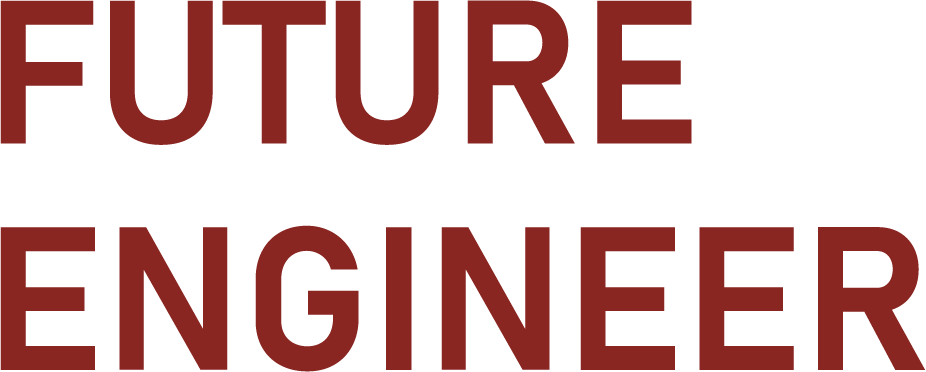
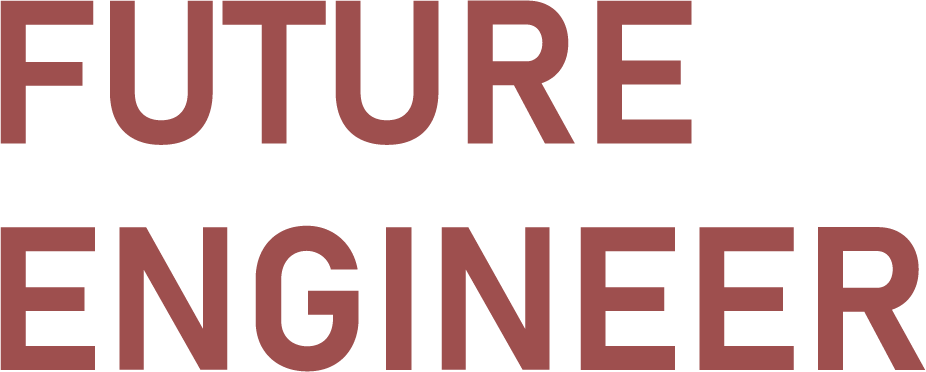
エンジニア説明周り修正

diff --git a/dev/src/dist/css/style.css b/dev/src/dist/css/style.css
@@ -1,9 +1,9 @@
 :import("../colors/_colors.css"){
-  i__const_col_text_common_81: col-text-common;
-  i__const_col_text_placeholder_common_82: col-text-placeholder-common;
+  i__const_col_text_common_147: col-text-common;
+  i__const_col_text_placeholder_common_148: col-text-placeholder-common;
 }
 :import("../variables/_variables.css"){
-  i__const_hover_time_transition_common_83: hover-time-transition-common;
+  i__const_hover_time_transition_common_149: hover-time-transition-common;
 }
 :export{
   values: "../variables/_variables.css";
@@ -2570,7 +2570,7 @@ button {
       }
 .Future__main--staffDetail {
       background-image: none;
-      background-color: #a52224;
+      background-color: #aa5c5a;
       padding: 0;
     }
 @media screen and (max-width: 1023px) {
@@ -2649,7 +2649,7 @@ button {
   }
 }
 .Future__lead {
-    background-color: #a72225;
+    background-color: #aa5c5a;
     padding: 80px 0 0;
   }
 @media screen and (max-width: 767px) {
@@ -2749,6 +2749,7 @@ button {
     position: relative;
     padding: 40px 10px 40px;
     z-index: 1;
+    margin-top: -1px;
   }
 @media screen and (max-width: 767px) {
   .Future__flowBody {
@@ -2985,6 +2986,19 @@ button {
     font-size: 1.4rem;
     line-height: 1.8;
   }
+@media screen and (max-width: 767px) {
+  .Future__infoGr {}
+}
+.Future__infoGr img {
+      margin-bottom: 40px;
+      display: block;
+    }
+@media screen and (max-width: 767px) {
+  .Future__infoGr img {
+    width: 48%;
+    margin-bottom: 20px;
+  }
+}
 .Future__bnrWrapper {
     padding: 60px 0;
   }
@@ -3009,7 +3023,7 @@ button {
   }
 }
 .Future__bnrContainer {
-    background-color: #a52224;
+    background-color: #aa5c5a;
     padding: 50px 0 80px;
   }
 @media screen and (max-width: 767px) {
@@ -3063,7 +3077,7 @@ button {
   }
 }
 .Staff__textWrapper {
-    background-color: #a52224;
+    background-color: #aa5c5a;
     color: #fff;
     border-radius: 14px 0 0 14px;
     -webkit-flex-basis: 50%;

diff --git a/dev/src/css/ui/future.css b/dev/src/css/ui/future.css
@@ -67,7 +67,7 @@
 
     &--staffDetail {
       background-image: none;
-      background-color: col-primary-red;
+      background-color: #aa5c5a;
       padding: 0;
 
       @mixin notPC {
@@ -138,7 +138,7 @@
   }
   
   &__lead {
-    background-color: #a72225;
+    background-color: #aa5c5a;
     padding: 80px 0 0;
 
     @mixin sp {
@@ -241,6 +241,7 @@
     position: relative;
     padding: 40px 10px 40px;
     z-index: 1;
+    margin-top: -1px;
 
     @mixin sp {
       padding: 40px 10px 20px;
@@ -460,6 +461,21 @@
     line-height: 1.8;
   }
 
+  &__infoGr {
+    @mixin sp {
+    }
+
+    img {
+      margin-bottom: 40px;
+      display: block;
+
+      @mixin sp {
+        width: 48%;
+        margin-bottom: 20px;
+      }
+    }
+  }
+
   &__bnrWrapper {
     padding: 60px 0;
 
@@ -479,7 +495,7 @@
   }
   
   &__bnrContainer {
-    background-color: col-primary-red;
+    background-color: #aa5c5a;
     padding: 50px 0 80px;
 
     @mixin sp {
@@ -529,7 +545,7 @@
   }
 
   &__textWrapper {
-    background-color: col-primary-red;
+    background-color: #aa5c5a;
     color: #fff;
     border-radius: 14px 0 0 14px;
     flex-basis: 50%;

diff --git a/dev/contents/template/future_engineer/index.php b/dev/contents/template/future_engineer/index.php
@@ -281,6 +281,20 @@ $staticPath = '../../../src/dist/';
           <div class="RoundWrapper__title">
             ひとめでわかるヒューマネテック
           </div>
+          <div class="Future__infoGr RoundWrapper__contents FlexBox FlexBox--wrap FlexBox--justify">
+            <img src="../../../src/asset/future/img-infogf1.png" alt="社員数 45人" />
+            <img src="../../../src/asset/future/img-infogf2.png" alt="売上・業績 4.3億" />
+            <img src="../../../src/asset/future/img-infogf3.png" alt="取引先企業数 約50社" />
+            <img src="../../../src/asset/future/img-infogf4.png" alt="未経験者の採用 10人" />
+            <img src="../../../src/asset/future/img-infogf5.png" alt="男女比 7:3" />
+            <img src="../../../src/asset/future/img-infogf6.png" alt="平均年齢 38.5歳" />
+            <img src="../../../src/asset/future/img-infogf7.png" alt="平均残業時間 20.7" />
+            <img src="../../../src/asset/future/img-infogf8.png" alt="有給消化率 ほぼ100%" />
+            <img src="../../../src/asset/future/img-infogf9.png" alt="設立 2005年" />
+            <img src="../../../src/asset/future/img-infogf10.png" alt="本社所在地 神田" />
+            <img src="../../../src/asset/future/img-infogf11.png" alt="平均勤続年数 6.5年" />
+            <img src="../../../src/asset/future/img-infogf12.png" alt="社員同士の懇親会の回数 計測不能" />
+          </div>
         </div>
 
         <div class="Future__bnrWrapper FlexBox FlexBox--center">
